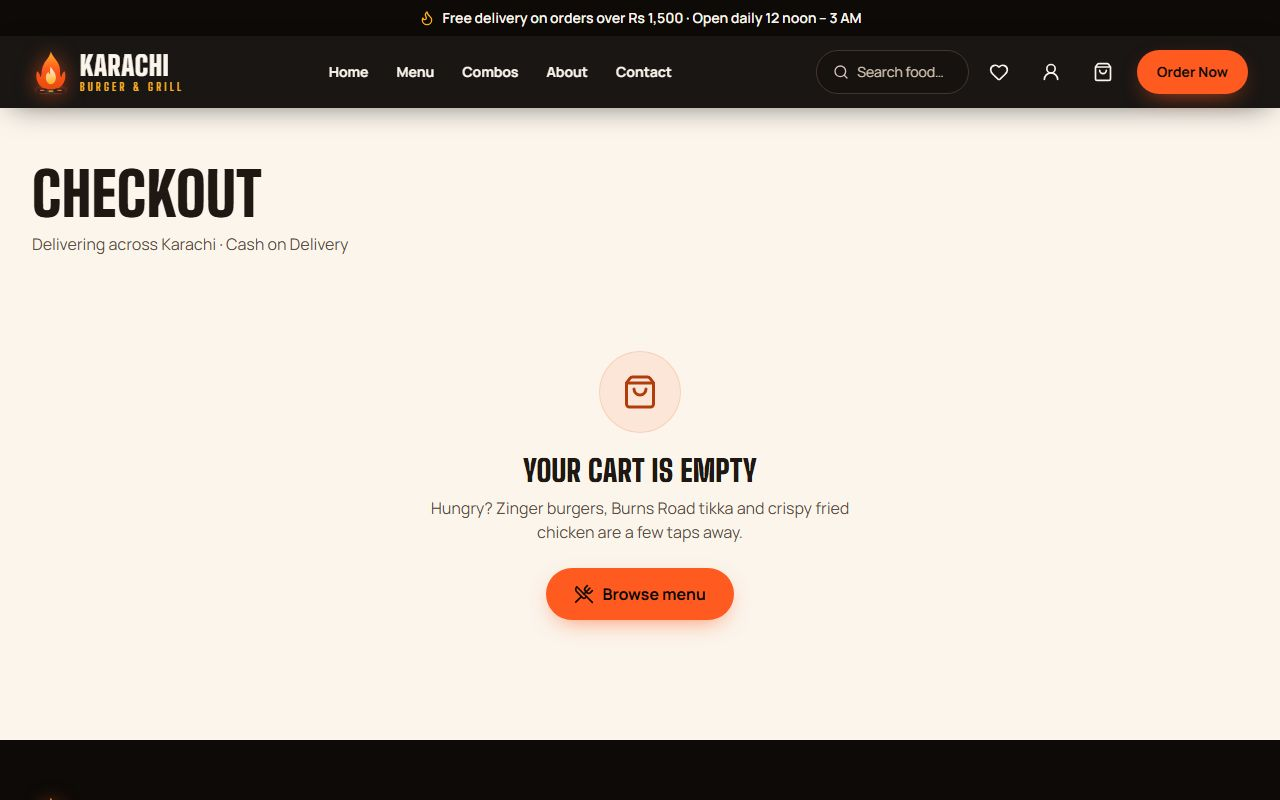
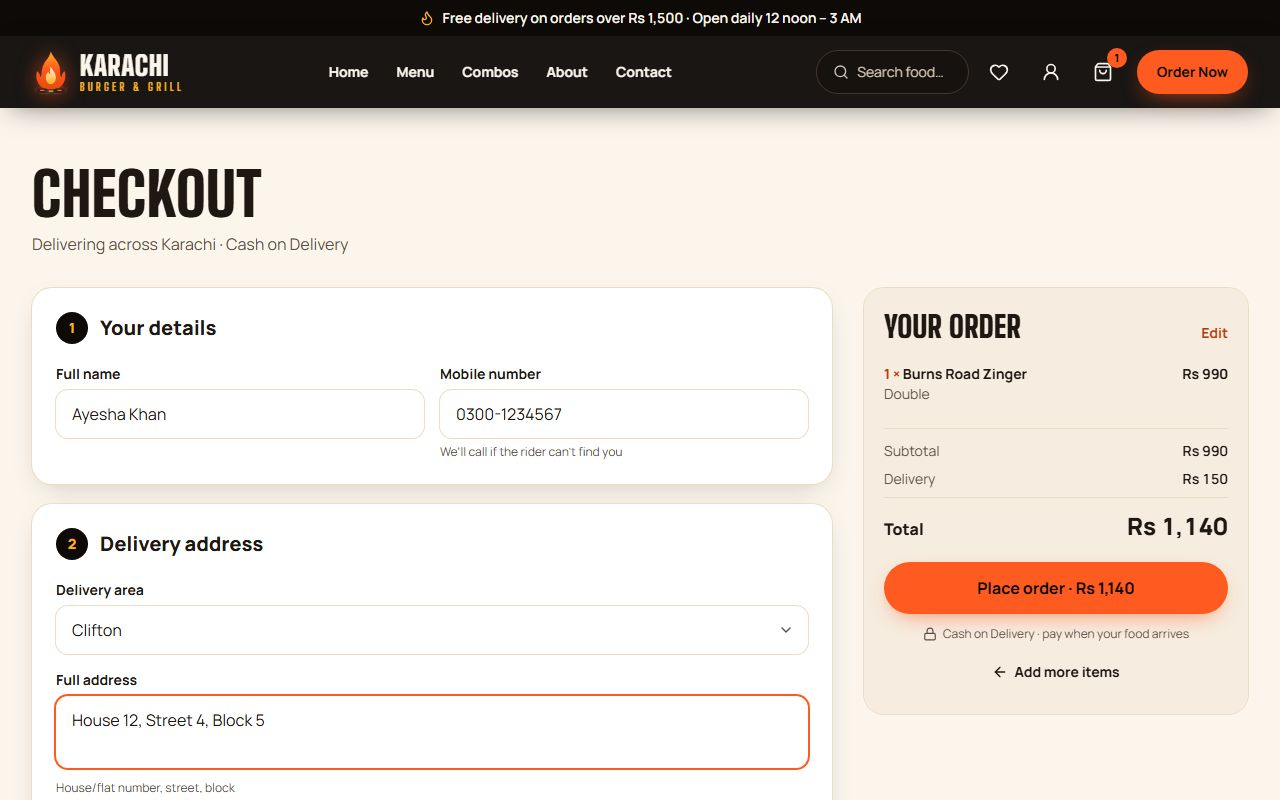
docs: GitHub landing README with gallery and journey screenshots
- README rewritten as a landing page: status, hero screenshot and
  gallery (menu, item popup, cart, checkout, tracker, mobile), plain
  feature list, customer walkthrough, stack badges with reasons,
  quality scores, Windows run steps, structure, SDD, roadmap, honest
  note and author
- New SCREENSHOTS=1 journey capture (item, cart, checkout, order)
- Journey doc screenshot table updated

diff --git a/frontend/tests/e2e/responsive.spec.ts b/frontend/tests/e2e/responsive.spec.ts
@@ -1,5 +1,5 @@
 import { expect, test } from "@playwright/test";
-import { ROUTES } from "./helpers";
+import { freshStart, ROUTES } from "./helpers";
 
 test.describe("responsive layout", () => {
   for (const route of ROUTES) {
@@ -33,7 +33,6 @@ test.describe("screenshots", () => {
   for (const [route, name] of [
     ["/", "home"],
     ["/menu", "menu"],
-    ["/checkout", "checkout"],
     ["/about", "about"],
   ] as const) {
     test(`capture ${name}`, async ({ page }, info) => {
@@ -42,4 +41,45 @@ test.describe("screenshots", () => {
       await page.screenshot({ path: `../docs/screenshots/${name}-${info.project.name}.jpg`, type: "jpeg", quality: 80 });
     });
   }
+
+  test("capture ordering journey", async ({ page }, info) => {
+    const shot = async (name: string) => {
+      // Start every view from the top (including scrollable dialog panels) with no toast in the way.
+      await expect(page.getByRole("button", { name: "Dismiss" })).toBeHidden({ timeout: 10_000 });
+      await page.evaluate(() => {
+        window.scrollTo(0, 0);
+        document.querySelectorAll("dialog[open] *").forEach((el) => el.scrollTo?.(0, 0));
+      });
+      await page.waitForTimeout(400);
+      await page.screenshot({ path: `../docs/screenshots/${name}-${info.project.name}.jpg`, type: "jpeg", quality: 80 });
+    };
+    // Thursday 8 PM PKT: open for ASAP delivery.
+    await page.clock.setFixedTime(new Date("2026-09-24T15:00:00Z"));
+    await freshStart(page, "/menu");
+
+    await page.getByRole("button", { name: "Add Burns Road Zinger", exact: true }).first().click();
+    const sheet = page.locator("dialog[open]");
+    await sheet.locator("label", { has: page.locator('input[value="double"]') }).click();
+    await page.waitForTimeout(600);
+    await shot("item");
+    await sheet.getByRole("button", { name: /^Add to cart/ }).click();
+    await expect(page.getByRole("button", { name: /^Open cart, 1 item/ })).toBeVisible();
+
+    await page.getByRole("button", { name: /^Open cart/ }).click();
+    await page.waitForTimeout(600);
+    await shot("cart");
+
+    await page.locator("dialog[open]").getByRole("link", { name: /^Checkout/ }).click();
+    await page.getByLabel("Full name").fill("Ayesha Khan");
+    await page.getByLabel("Mobile number").fill("03001234567");
+    await page.getByLabel("Delivery area").selectOption("clifton");
+    await page.getByLabel("Full address").fill("House 12, Street 4, Block 5");
+    await page.waitForTimeout(300);
+    await shot("checkout");
+
+    await page.getByRole("button", { name: /^Place order/ }).click();
+    await expect(page).toHaveURL(/\/order\/KBG-\d{5}$/, { timeout: 10_000 });
+    await page.waitForTimeout(600);
+    await shot("order");
+  });
 });

diff --git a/README.md b/README.md
@@ -1,101 +1,158 @@
 # Karachi Burger & Grill
 
-> **Karachi ka asli zaiqa.** Charcoal-grilled burgers, crispy fried chicken and Burns Road BBQ,
-> ordered online.
+> **Karachi ka asli zaiqa**
 
-This is the restaurant's website frontend. It's fast, accessible and works like a food-ordering app
-on phones. It runs on mock data today and is ready to plug into a FastAPI backend.
+A full online food-ordering website for a burger & BBQ restaurant on Burns Road, Karachi.
 
-![Home page on desktop](docs/screenshots/home-desktop-1280.jpg)
+**Status: 🟢 Frontend complete — 🛠 backend in progress**
 
-## Features
+![Karachi Burger & Grill home page](docs/screenshots/home-desktop-1280.jpg)
 
-- **Menu:** 33 items in 8 categories, with search, category filters and sorting. The filter state
-  lives in the URL, so any view can be shared.
-- **Item view:** a dialog on desktop and a draggable bottom sheet on phones. You choose the
-  required size or meal first, then add-ons, a note and a quantity. The browser Back button closes
-  it, and every item also has its own page (`/menu/<slug>`).
-- **Cart:**
-  - slide-in drawer and a `/cart` page
-  - prices always recomputed from the menu
-  - Wings Wednesday discount in Pakistan time
-  - delivery Rs 150, free from Rs 1,500
-- **Checkout:**
-  - validated form with Pakistani mobile formatting
-  - ASAP or a half-hour slot inside opening hours
-  - Cash on Delivery
-  - order confirmation with a demo live tracker
-- **Also included:**
-  - favourites
-  - combos, about, contact, FAQ, privacy, terms and order-tracking pages
-  - login and signup screens (UI only for now)
-  - a branded 404 page
-- **Polish:**
-  - page transitions, scroll reveals and the fly-to-cart animation, all turned off by the OS
-    "Reduce motion" setting
-  - WCAG 2.1 AA, checked with axe
-  - SEO: sitemap, robots, Open Graph image and JSON-LD
-  - zero layout shift
+| Menu | Item popup | Cart |
+|---|---|---|
+| ![Menu with search and category filters](docs/screenshots/menu-desktop-1280.jpg) | ![Item popup with options and extras](docs/screenshots/item-desktop-1280.jpg) | ![Cart drawer with free-delivery bar](docs/screenshots/cart-desktop-1280.jpg) |
+| **Checkout** | **Order tracker** | **Mobile** |
+| ![Checkout form with Cash on Delivery](docs/screenshots/checkout-desktop-1280.jpg) | ![Order confirmation and tracker](docs/screenshots/order-desktop-1280.jpg) | ![Item bottom sheet on a phone](docs/screenshots/item-mobile-360.jpg) |
+
+---
+
+## What you can do on the website
+
+- 🍔 **Browse the full menu.** There are 33 items in 8 categories: Burgers, Wraps, Fried Chicken,
+  Sandwiches, BBQ, Bowls, Sides & Drinks, and Combos.
+- 🔎 **Search and filter.** Type "tikka" or "wings", tap a category, or sort by price or popularity.
+- 🎛 **Make it yours.** Choose a size or meal: a Meal includes Masala Fries + Chilled Cola. You can
+  add extras like cheese or jalapeños and set the quantity.
+- ✍ **Add special instructions**, like "no onions" or "extra spicy".
+- 🛒 **Review your cart.** Change quantities, and a progress bar shows how much more you need for
+  **free delivery (Rs 1,500 and above)**. Otherwise delivery is Rs 150.
+- 📍 **Check out for delivery in Karachi.** Choose Saddar, Clifton, DHA, PECHS, Gulshan or North
+  Nazimabad, then ASAP or a time later today.
+- 💵 **Pay with Cash on Delivery.** Card, JazzCash and Easypaisa are marked "coming soon".
+- ✅ **Get an order confirmation** with an order number, estimated arrival time and a live-style
+  tracker: Confirmed → Preparing → On the way → Delivered.
+- ❤ **Save favourites** so you can find the dishes you love again.
+- 🔥 **Get the Wings Wednesday deal.** Fire Wings are 20% off every Wednesday, on Karachi time.
+- 🕒 **Order within opening hours.** The restaurant is open daily from 12 noon to 3 AM. When it's
+  closed, the site tells you and lets you schedule for later.
+
+## How to use it
+
+1. Open the **Menu** from the top bar.
+2. **Pick an item** to open its popup (on a phone, it slides up from the bottom).
+3. **Choose an option** (Single, Double or Meal), then add any extras or a note.
+4. Tap **Add to cart**, then open the cart from the bag icon.
+5. Tap **Checkout**, fill in your name, mobile number and address, and keep **Cash on Delivery**.
+6. Tap **Place order** and **track your order** on the confirmation page.
 
 ## Tech stack
 
-Next.js 16 (App Router) · React 19 · TypeScript (strict) · Tailwind CSS 4 · Zustand 5 ·
-React Hook Form + Zod 4 · motion · lucide-react · Vitest · Playwright + axe-core
+![Next.js](https://img.shields.io/badge/Next.js_16-000000?logo=nextdotjs&logoColor=white)
+![TypeScript](https://img.shields.io/badge/TypeScript-3178C6?logo=typescript&logoColor=white)
+![Tailwind CSS](https://img.shields.io/badge/Tailwind_CSS_4-06B6D4?logo=tailwindcss&logoColor=white)
+![Framer Motion](https://img.shields.io/badge/Motion_(Framer_Motion)-0055FF?logo=framer&logoColor=white)
+![Zustand](https://img.shields.io/badge/Zustand-443E38)
+![React Hook Form](https://img.shields.io/badge/React_Hook_Form-EC5990?logo=reacthookform&logoColor=white)
+![Zod](https://img.shields.io/badge/Zod_4-3E67B1?logo=zod&logoColor=white)
+![Playwright](https://img.shields.io/badge/Playwright-2EAD33?logo=playwright&logoColor=white)
 
-## Getting started
+| Tool | Why |
+|---|---|
+| **Next.js 16 (App Router)** | Pages are rendered on the server, so they load fast and search engines can read them. |
+| **TypeScript (strict)** | Every menu item, cart line and order is typed, so mistakes are caught before they reach users. |
+| **Tailwind CSS 4** | One set of brand colours and spacing used everywhere, which keeps the design consistent. |
+| **Motion (Framer Motion)** | Powers the fly-to-cart animation. Other effects are plain CSS, and all motion respects "Reduce motion". |
+| **Zustand** | A tiny store that keeps your cart and favourites saved between visits. |
+| **React Hook Form** | Fast, accessible forms that don't re-render on every keystroke. |
+| **Zod** | One set of rules for checking names, phone numbers and addresses, reusable by the backend. |
+| **Playwright** | Real-browser tests of the ordering journey on phone, tablet, laptop and large screens. |
 
-Requires Node.js 20.9+ (tested on 24).
+## Quality
 
-```bash
+| Lighthouse | Score |
+|---|---|
+| Accessibility | **100** |
+| Best Practices | **100** |
+| SEO | **100** |
+| Performance (desktop) | **93** home / **90** menu |
+
+- ✅ **67 unit tests** (Vitest): pricing, discounts, Karachi time, validation, cart.
+- ✅ **164 browser tests** (Playwright): the full order flow, keyboard-only use and reduced motion,
+  plus an automated accessibility scan (WCAG 2.1 AA) at 360, 768, 1280 and 1920 px.
+- Performance on mobile was 71 / 72 on a local laptop's simulated slow phone. It will be re-measured
+  with PageSpeed Insights after deployment.
+
+## Run it locally
+
+You need [Node.js](https://nodejs.org/) 20.9 or newer (tested on 24). In **Command Prompt** or **PowerShell** on Windows:
+
+```bat
+git clone https://github.com/Shuaibali0786/restaurant-karachi-burger-gril.git
+cd restaurant-karachi-burger-gril
 cd frontend
 npm install
-npm run dev          # http://localhost:3000
+npm run dev
 ```
 
-Optional: copy `frontend/.env.example` to `frontend/.env.local` and set `NEXT_PUBLIC_SITE_URL`
-when deploying. It is used for share images, the sitemap and robots.
+Then open **http://localhost:3000** in your browser.
 
-## Scripts
-
-Run these from `frontend/`:
+Other commands, run from `frontend`:
 
 | Command | What it does |
 |---|---|
-| `npm run dev` | Development server |
-| `npm run build` / `npm run start` | Production build and server |
-| `npm run lint` | ESLint (zero errors required) |
-| `npm run typecheck` | `tsc --noEmit` |
-| `npm test` | Vitest unit tests (pricing, promos, time zone, validation, stores) |
-| `npm run test:e2e` | Playwright: ordering flow, keyboard, accessibility and responsive checks at 360/768/1280/1920 px |
+| `npm run build` then `npm run start` | Production build and server |
+| `npm run lint` / `npm run typecheck` | Code checks |
+| `npm test` | Unit tests |
+| `npm run test:e2e` | Browser tests (first run `npx playwright install chromium`) |
 
 ## Project structure
 
 ```
-frontend/            Next.js app
-  src/app/           routes (pages, sitemap, robots, OG image, icons)
-  src/components/    UI grouped by area (home, menu, cart, checkout, layout, ui, forms)
-  src/lib/api.ts     the only data entry point, to be swapped for the FastAPI backend
-  src/lib/data/      mock catalogue, promos, site info
-  src/stores/        Zustand stores (cart, favourites, UI)
-  tests/             unit (Vitest) and e2e (Playwright)
-specs/               SpecKit spec, plan, data model, API contracts and tasks
-docs/                project journey and screenshots
-history/             prompt history and decision records
-assets/              source photos and design reference
+frontend/              Next.js website
+  src/app/             pages, sitemap, robots, share image, icons
+  src/components/      UI by area: home, menu, cart, checkout, layout, forms
+  src/lib/api.ts       the one place data comes from (the backend plugs in here)
+  src/lib/data/        demo menu, deals, delivery areas, site info
+  src/stores/          saved cart, favourites and UI state
+  tests/               unit and browser tests
+specs/                 specification, plan, data model, API contract, task list
+docs/                  project journey and screenshots
+history/               prompt history records
 ```
 
-## Backend-ready
+## How it was built
 
-Components never import data directly. They call `@/lib/api`, and an ESLint rule enforces this.
-The draft API contract is in
-[`specs/001-restaurant-frontend/contracts/openapi.yaml`](specs/001-restaurant-frontend/contracts/openapi.yaml).
+This project follows **Spec-Driven Development** with **Spec-Kit Plus**
+and **Claude Code**. The steps were:
 
-## Honesty
+1. Write a constitution, the project's ground rules (for example: no fake ratings or numbers).
+2. Write a specification and resolve open questions with the owner.
+3. Write a technical plan and data model.
+4. Break the plan into 102 tasks.
+5. Build it in 8 phases, each reviewed in the browser before committing.
 
-The site shows no invented statistics or ratings. Testimonials are labelled **"Sample reviews"**
-until real reviews exist, and card star ratings stay hidden until the backend provides real ones.
+- 📖 The full story (what was built in each phase, why each tool was chosen, and the problems solved)
+  is in [`docs/PROJECT-JOURNEY.md`](docs/PROJECT-JOURNEY.md).
+- 📐 The spec, plan, data model, API contract and tasks are in
+  [`specs/001-restaurant-frontend/`](specs/001-restaurant-frontend/).
 
-## More
+## Roadmap
 
-For how it was built, phase by phase, including the problems solved and the Lighthouse results, see
-[`docs/PROJECT-JOURNEY.md`](docs/PROJECT-JOURNEY.md).
+- [x] **Phase 1: Frontend.** The complete ordering website (this repo, today).
+- [ ] **Phase 2: Backend** with FastAPI, SQLModel and Neon Postgres. It will add real orders, an
+  admin panel for the kitchen, customer accounts and real reviews.
+- [ ] **Phase 3: Deployment** on Vercel.
+
+## Honest note
+
+- **Orders are demo-only for now.** They are saved in your browser, not sent to the restaurant,
+  until the backend is live. The order tracker is a demo too.
+- **Reviews on the home page are samples** and are labelled that way. Real reviews will come with
+  the backend.
+
+## Author
+
+**Shuaib Ali**
+
+- GitHub: [@Shuaibali0786](https://github.com/Shuaibali0786)
+- LinkedIn: _add your LinkedIn profile link here_

diff --git a/history/prompts/001-restaurant-frontend/016-github-readme-and-push.misc.prompt.md b/history/prompts/001-restaurant-frontend/016-github-readme-and-push.misc.prompt.md
@@ -1,0 +1,71 @@
+---
+id: 016
+title: GitHub README and push to origin
+stage: misc
+date: 2026-09-27
+surface: agent
+model: claude-opus-5-5
+feature: 001-restaurant-frontend
+branch: 001-restaurant-frontend
+user: Shuaibali0786
+command: README + git push
+labels: ["docs", "readme", "github", "screenshots", "push"]
+links:
+  spec: specs/001-restaurant-frontend/spec.md
+  ticket: null
+  adr: null
+  pr: null
+files:
+ - README.md
+ - docs/PROJECT-JOURNEY.md
+ - docs/screenshots/item-*.jpg, cart-*.jpg, order-*.jpg, checkout-*.jpg
+ - frontend/tests/e2e/responsive.spec.ts
+tests:
+ - SCREENSHOTS=1 playwright responsive.spec.ts "capture" at mobile-360 and desktop-1280 — 8 passed
+ - lint and typecheck on tests — 0 errors
+---
+
+## Prompt
+
+Two tasks:
+
+TASK 1 — Make README.md a great GitHub landing page (update the existing one, don't start from zero):
+- Top: project name "Karachi Burger & Grill", tagline "Karachi ka asli zaiqa", one line explaining it is a full online food-ordering website for a burger & BBQ restaurant on Burns Road, Karachi.
+- A hero screenshot (docs/screenshots) right under the title, then a small gallery: home, menu, item popup, cart, checkout, order tracker, mobile view.
+- "What you can do on the website" — explained simply for a non-technical visitor: browse 33 items in 8 categories, search and filter, choose options and extras, add special instructions, cart with free-delivery bar, checkout with Karachi delivery areas, Cash on Delivery, order confirmation and live-style tracker, favourites, Wings Wednesday discount, opening-hours logic.
+- "How to use it" — a short step-by-step customer walkthrough (open menu → pick item → choose option → add to cart → checkout → track order).
+- Tech stack with badges (Next.js, TypeScript, Tailwind CSS, Framer Motion, Zustand, React Hook Form, Zod, Playwright) and why each was chosen, in one line each.
+- Quality: Lighthouse scores table (Accessibility 100, Best Practices 100, SEO 100, Performance desktop 93/90), 67 unit tests, 164 browser tests.
+- "Run it locally" — exact commands for Windows (cd frontend, npm install, npm run dev, open http://localhost:3000).
+- Project structure (short tree), and how it was built with Spec-Driven Development (Spec-Kit Plus + Claude Code), linking docs/PROJECT-JOURNEY.md and specs/.
+- Roadmap: Phase 2 backend (FastAPI + SQLModel + Neon Postgres: real orders, admin panel, accounts, real reviews), Phase 3 deployment (Vercel). Mark current status clearly: "Frontend complete — backend in progress".
+- Honest note: orders are demo-only (saved in the browser) until the backend is live; reviews are samples.
+- Author section: Shuaib Ali, GitHub link, and a placeholder for LinkedIn.
+Commit this.
+
+TASK 2 — Push to GitHub: https://github.com/Shuaibali0786/restaurant-karachi-burger-gril.git
+- Add it as remote "origin" (update the URL if origin exists).
+- Push the current branch 001-restaurant-frontend to GitHub as "main" and set upstream. Do not rename or delete the local branch.
+- If the remote already has commits, fetch and merge safely, keeping our README.md. Never force-push.
+- Make sure .gitignore covers node_modules, .next, .env and .env.local, and no secrets are pushed.
+- If the GitHub CLI (gh) is available and logged in, also set the repo description and topics (nextjs, typescript, tailwindcss, restaurant, food-ordering, karachi, spec-driven-development). If not, tell me exactly what to type in the GitHub "About" box.
+- Finally show me the GitHub link and a summary of what was pushed.
+
+## Response snapshot
+
+Captured item popup, cart drawer, filled checkout and order tracker screenshots via a new SCREENSHOTS=1 journey test (clock pinned to opening hours, views scrolled to top, toast cleared). Rewrote README as a landing page: title/tagline/status, hero + 6-image gallery, plain-language features and walkthrough, badges with one-line reasons, quality table (desktop 93/90 plus an honest mobile note), Windows run commands, structure tree, SDD section, roadmap, honest note, author. Journey doc screenshot table updated. Verified .gitignore (.env*, node_modules, .next) and no secrets tracked; added origin and pushed 001-restaurant-frontend to main with upstream; set description and topics via gh.
+
+## Outcome
+
+- ✅ Impact: Repository has a clear public landing page and is on GitHub.
+- 🧪 Tests: screenshot capture 8/8 pass.
+- 📁 Files: see list above
+- 🔁 Next prompts: add LinkedIn link; start Phase 2 backend spec (FastAPI + SQLModel + Neon)
+- 🧠 Reflection: Generating screenshots from a test keeps them reproducible after UI changes.
+
+## Evaluation notes (flywheel)
+
+- Failure modes observed: first capture scrolled views and caught a toast; toast Dismiss click timed out (waited for auto-hide instead)
+- Graders run and results (PASS/FAIL): lint PASS, typecheck PASS, capture PASS
+- Prompt variant (if applicable): null
+- Next experiment (smallest change to try): null

diff --git a/docs/PROJECT-JOURNEY.md b/docs/PROJECT-JOURNEY.md
@@ -198,11 +198,11 @@ into `docs/screenshots/`.
 | Home | ![Home on a phone](screenshots/home-mobile-360.jpg) | ![Home on desktop](screenshots/home-desktop-1280.jpg) |
 | Menu | ![Menu on a phone](screenshots/menu-mobile-360.jpg) | ![Menu on desktop](screenshots/menu-desktop-1280.jpg) |
 | Checkout | ![Checkout on a phone](screenshots/checkout-mobile-360.jpg) | ![Checkout on desktop](screenshots/checkout-desktop-1280.jpg) |
+| Item view | ![Item bottom sheet on a phone](screenshots/item-mobile-360.jpg) | ![Item dialog on desktop](screenshots/item-desktop-1280.jpg) |
+| Cart | ![Cart drawer on a phone](screenshots/cart-mobile-360.jpg) | ![Cart drawer on desktop](screenshots/cart-desktop-1280.jpg) |
+| Order tracker | ![Order confirmation on a phone](screenshots/order-mobile-360.jpg) | ![Order confirmation on desktop](screenshots/order-desktop-1280.jpg) |
 | About | ![About on a phone](screenshots/about-mobile-360.jpg) | ![About on desktop](screenshots/about-desktop-1280.jpg) |
 
-Placeholders to add by hand:
+Placeholder to add by hand:
 
-- _[Screenshot: item bottom sheet on a phone with "Double" selected]_
-- _[Screenshot: cart drawer with the free-delivery progress bar]_
-- _[Screenshot: order confirmation with the live tracker]_
 - _[Screenshot: branded 404 page]_
